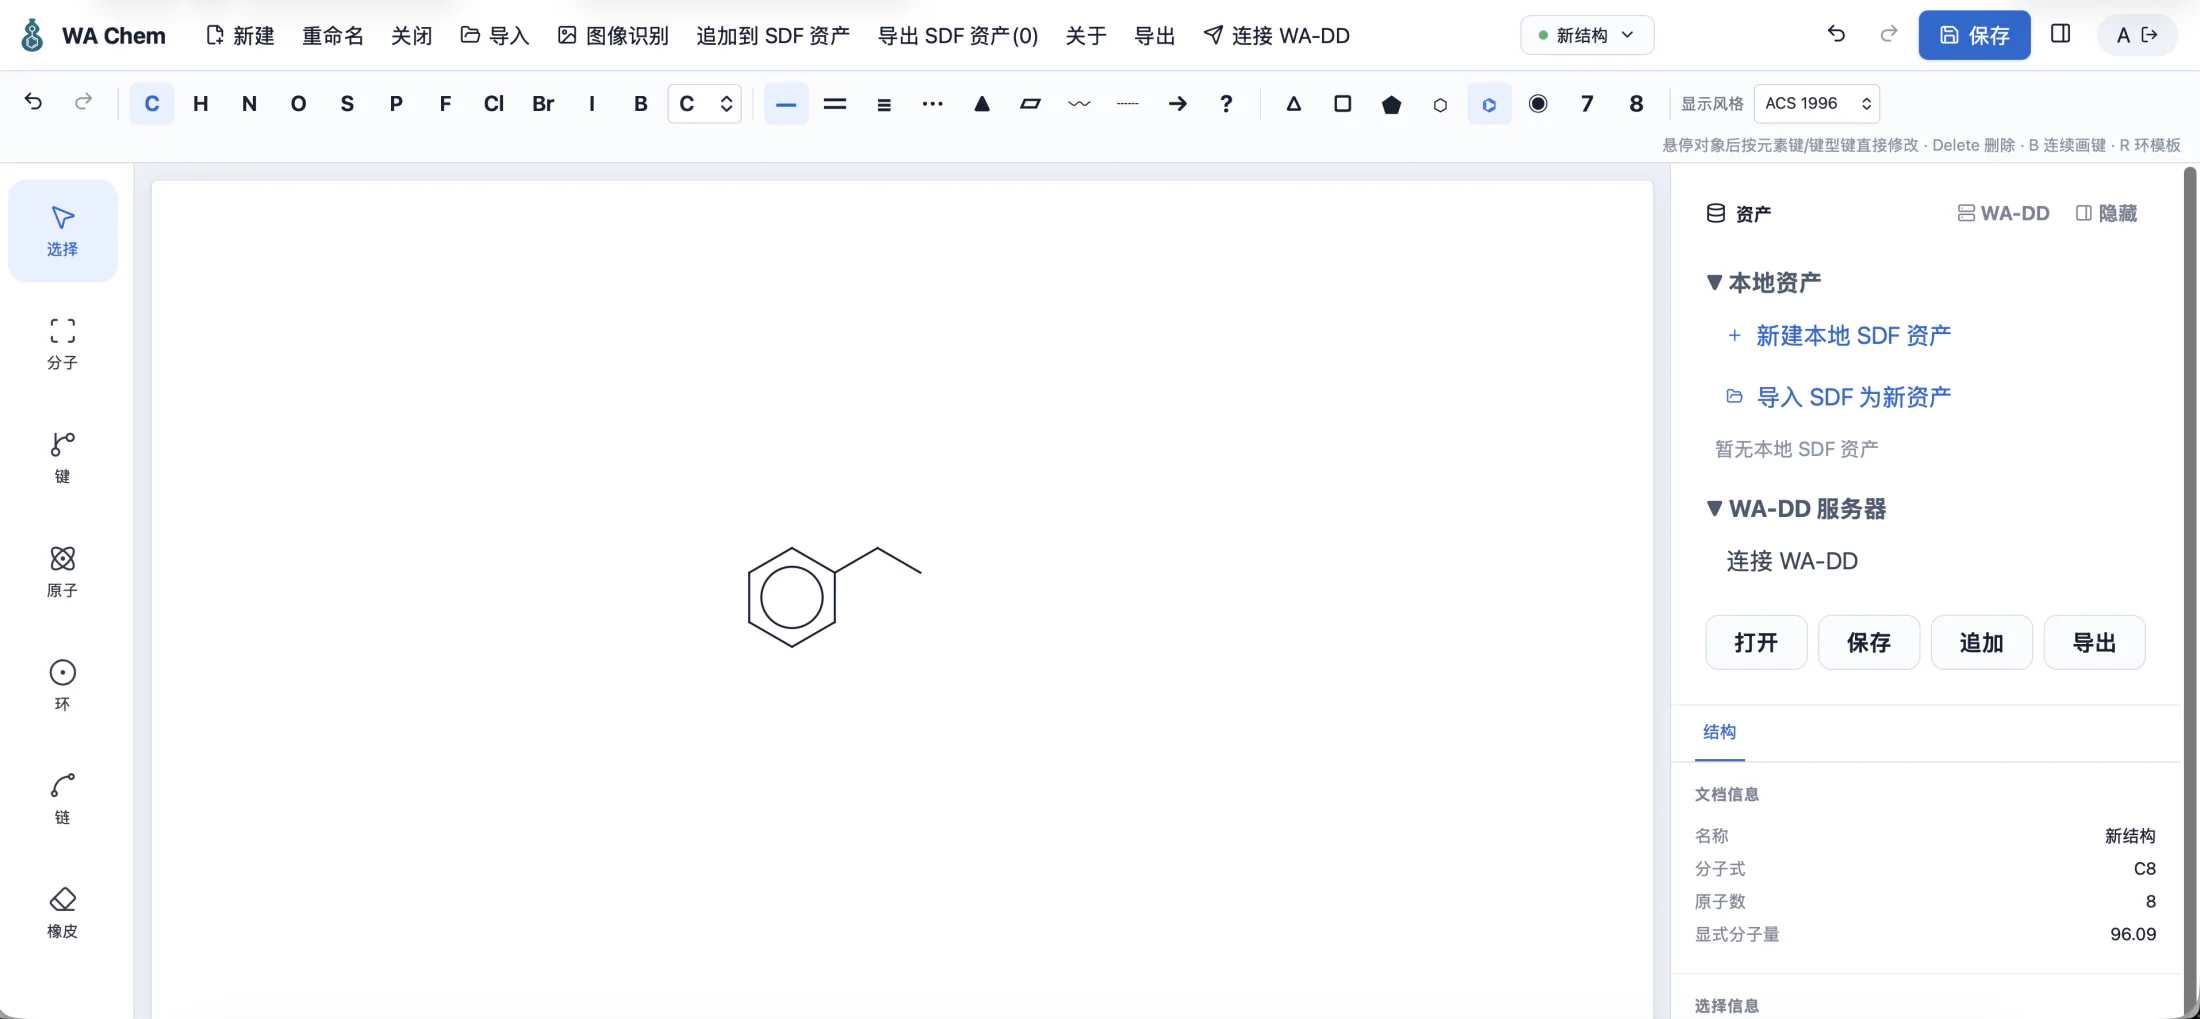
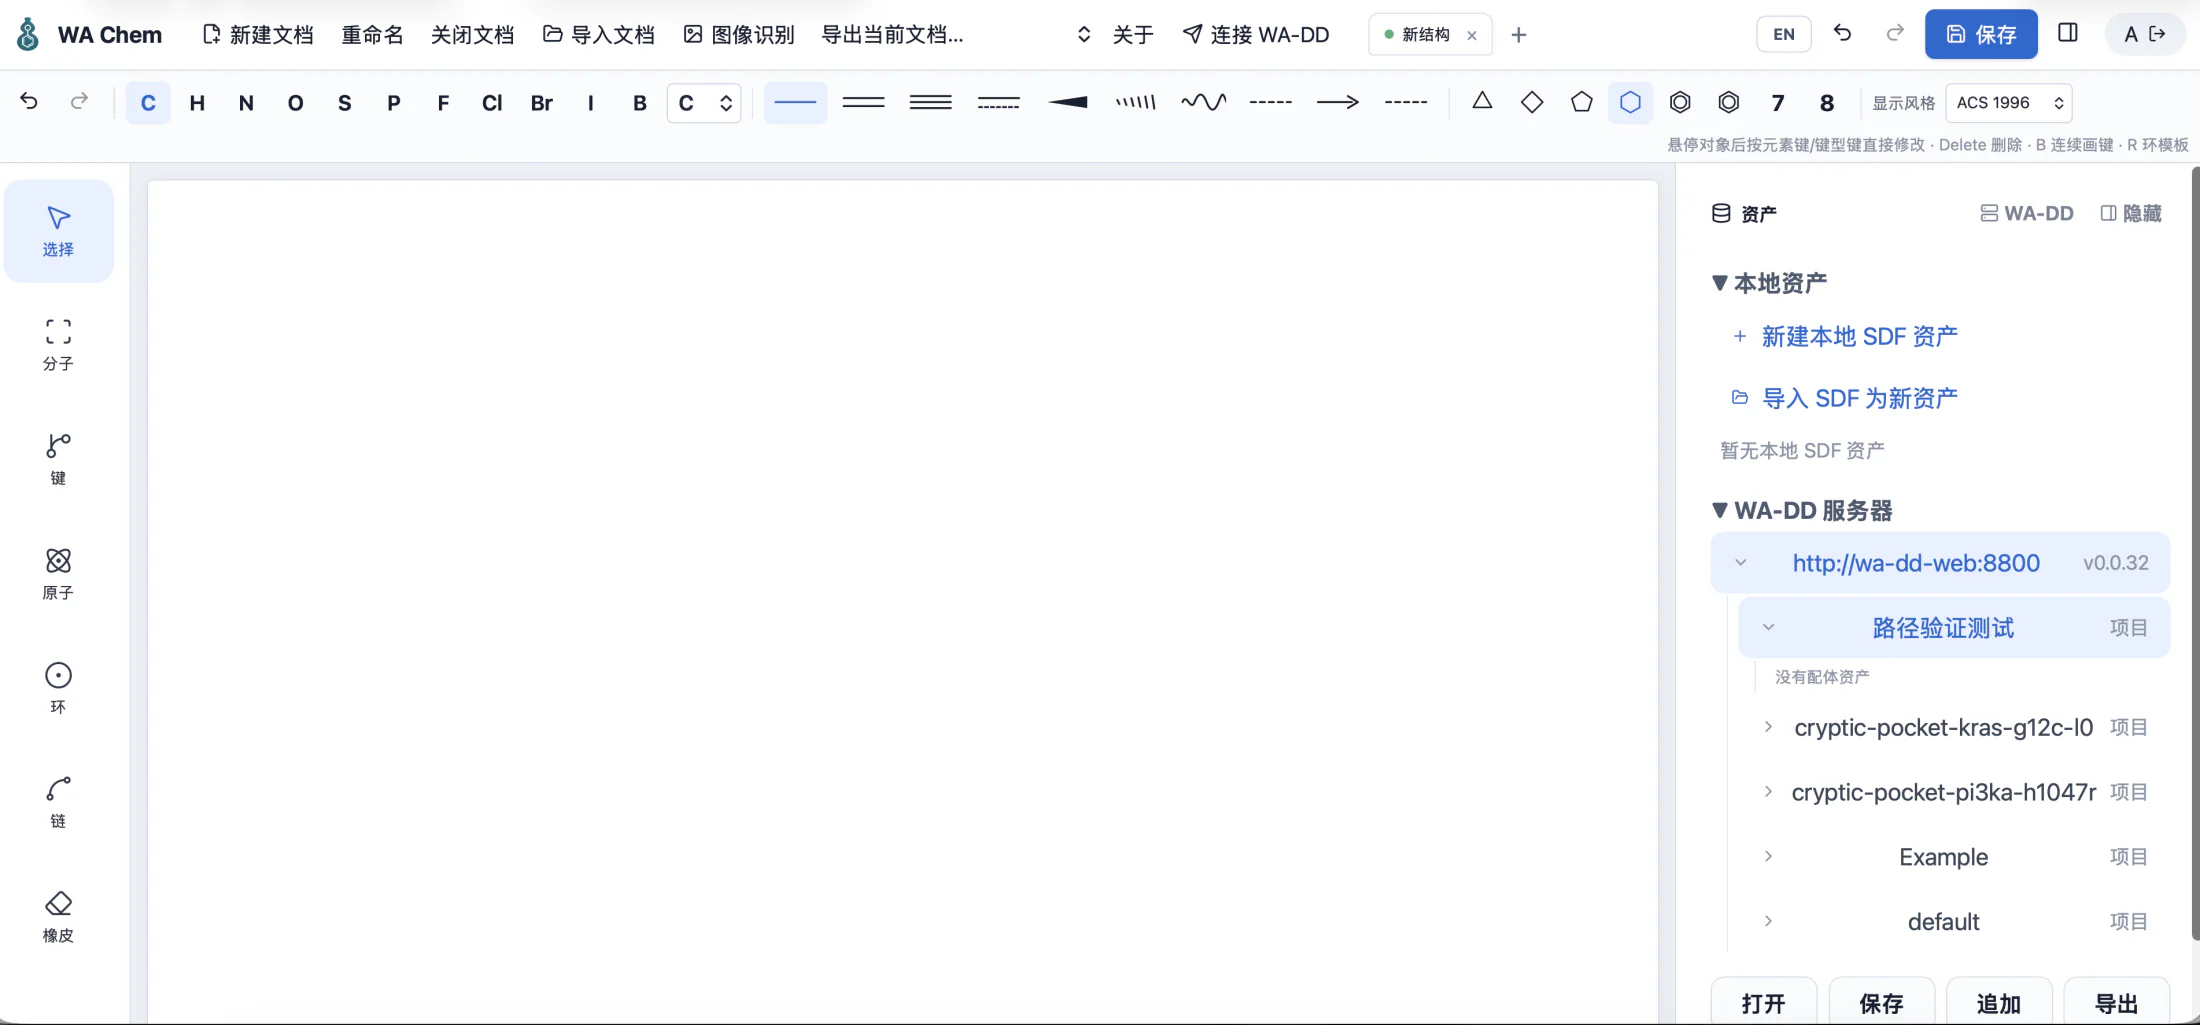
chore: refresh Web experience screenshot

diff --git a/index.html b/index.html
@@ -167,7 +167,7 @@
                 alt="WA Chem Web 版化学结构编辑器与资产管理界面"
                 data-i18n-alt="webExperienceAlt"
                 width="2200"
-                height="1019"
+                height="1025"
                 loading="lazy"
               />
               <figcaption data-i18n="webExperienceCaption">Web 工作台 · 服务器算力</figcaption>
